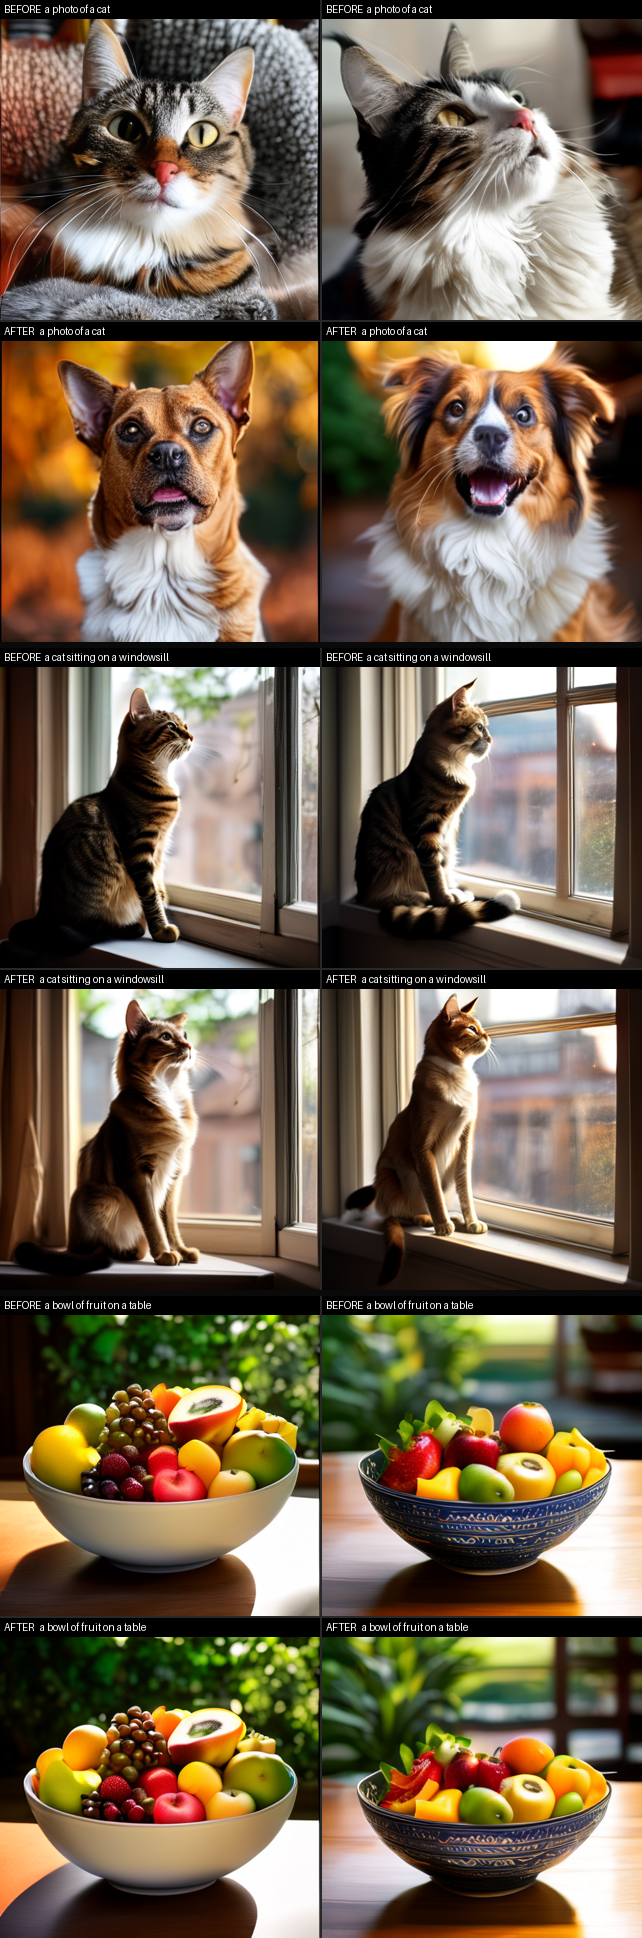
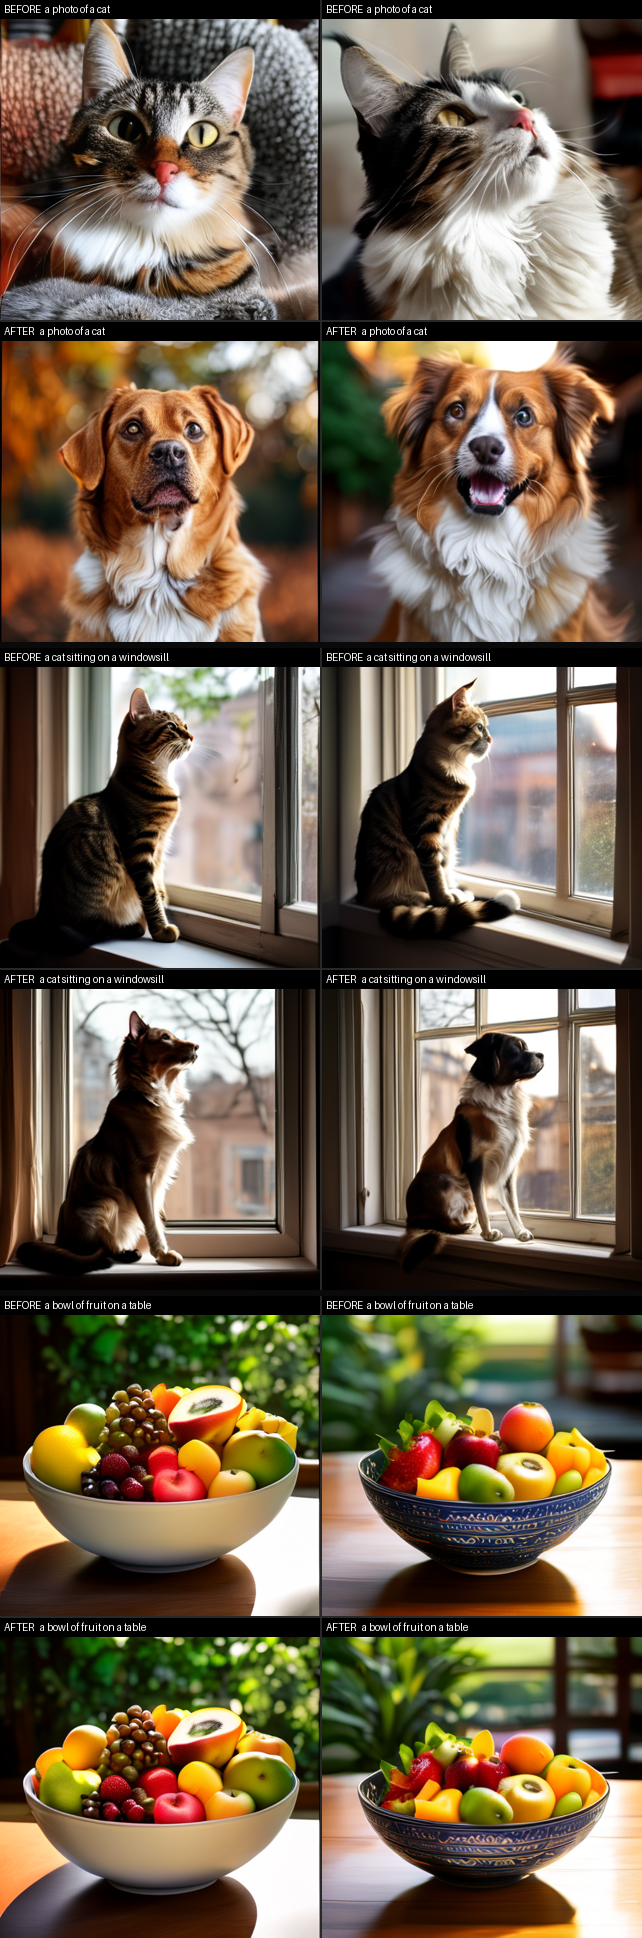
Iteration rounds 2-3: retrained weak ops, 4 more passes
Two workflow judge rounds drove retunes: erase at 600-1000 iters
(templates work but 1000 overcooks into cartoon styles), symmetric
blend phrase for two-way style convergence, freeze demo re-paired with
a token-disjoint chessboard target, cat#cat anchor for orthogonal,
encoder stage at strength 2, pixel op re-strengthened to 220 iters
after the anchor fix. New write scene templates flip contextual
prompts on both seeds. blend/encoder/write/replace/pixel/freeze now
judged pass.

diff --git a/conceptmod/ops.py b/conceptmod/ops.py
@@ -34,6 +34,9 @@ WRITE_TEMPLATES = [
     "a {} sleeping on a bed",
     "a {} next to a person",
     "a {} outdoors, golden hour",
+    "a {} perched by a window",
+    "a {} indoors, natural light",
+    "a side view of a {} sitting",
 ]
 
 ERASE_TEMPLATES = [
